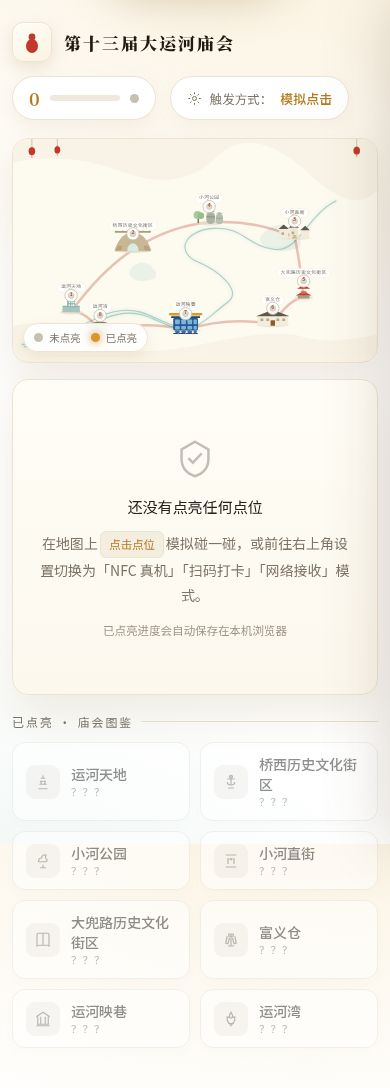
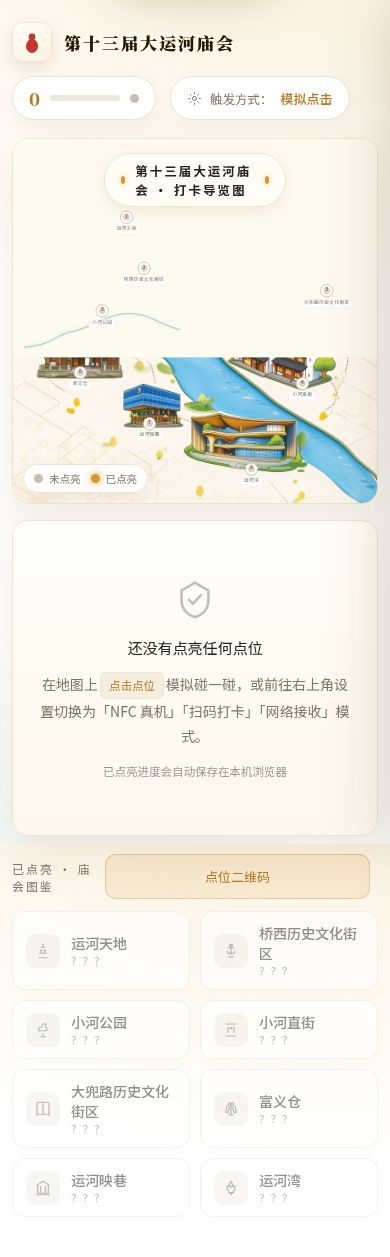
地图完整显示：限制地图容器最大宽度720px居中，保持方形铺满，桌面/手机均一眼看全8点位

diff --git a/index.html b/index.html
@@ -69,7 +69,7 @@ button{font-family:inherit;cursor:pointer;border:none;background:none;color:inhe
 .stage{position:relative;border-radius:var(--radius);overflow:hidden;background:
   radial-gradient(900px 420px at 50% -5%, #fffdf5 0%, rgba(255,253,245,0) 60%),
   linear-gradient(180deg,#fffdf6,#fbf4e6);
-  border:1px solid var(--line);box-shadow:var(--shadow)}
+  border:1px solid var(--line);box-shadow:var(--shadow);width:100%;max-width:720px;margin:0 auto}
 .stage svg.svg-map{display:block;width:100%;height:auto}
 .legend{position:absolute;left:14px;bottom:14px;display:flex;gap:16px;font-size:11.5px;color:var(--paper-dim);background:rgba(255,255,255,.9);backdrop-filter:blur(6px);padding:8px 14px;border-radius:999px;border:1px solid var(--line);box-shadow:0 6px 16px rgba(150,115,60,.1)}
 .legend i{display:inline-block;width:9px;height:9px;border-radius:50%;margin-right:6px;vertical-align:-1px}
